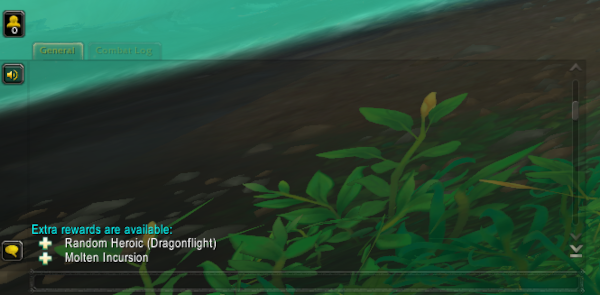
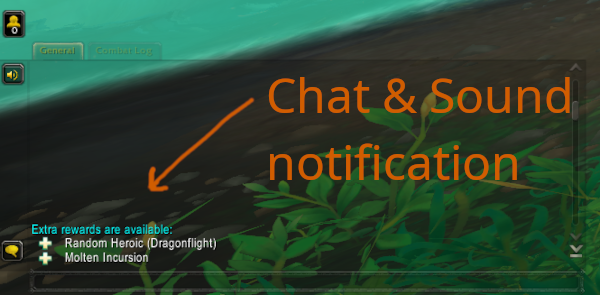
readme, license etc

diff --git a/README.md b/README.md
@@ -1,0 +1,66 @@
+# lfgmon
+
+![logo](assets/logo.png)
+
+## About
+
+
+LFG Monitor (lfgmon) watches the group finder for rare role shortages and extra rewards (Satchel of Cooperation, aka blue bag). When it finds a shortage, it will display a helpful notification icon, and optionally can send you a chat & sound notification.
+
+
+The addon tries to be non-intrusive with its default settings, and integrates well with the vanilla WoW UI.
+
+
+
+## How does it work?
+
+
+   * Install and enable the addon.
+   * The tool will run in the background, and silently monitor eligible LFG dungeons and raids.
+
+
+## When extra rewards are found:
+
+   * a notification icon is displayed (see screenshots)
+   * you can move the icon anywhere on the screen, it will remember the position
+   * hover over the icon to see a list of dungeons and raids giving extra rewards
+   * if notifications are enabled, you will also get a message and a sound notification for any new role shortages (see screenshots)
+
+
+## Settings
+
+
+You can open the settings window from the in-game Options menu, from the Addons tab by locating the "lfgmon" section (see screenshot).
+
+You can also open the settings window using the `/lfgmon config` slash command.
+
+
+You can enable/disable the following options:
+
+
+   * Monitor Dungeons: when enabled, the tool will monitor the LFG - Random Dungeons. (default: enabled)
+   * Monitor Raids: when enabled, the tool will monitor the LFR - Raid Finder. (default: enabled)
+   * Consider Lockout: when enabled, you will not get notified about raid wings you have already killed all bosses in. (default: enabled)
+   * Play Alert: to get chat/sound notifications, you will need to enable this option. (default: disabled)
+
+
+
+## Commands
+
+
+The following chat commands are available:
+
+
+   * `/lfgmon config`: open the settings window
+   * `/lfgmon reset`: reset all options, and the icon position to their default values. This can be useful if you accidentally moved the icon outside of the visible screen.
+
+
+## Feedback, contribution
+
+
+The addon is free and open source, governed by the GPLv3 license.
+
+
+Please report bugs on the CurseForge page, preferably using the built-in issue tracker.
+
+The source code is available here.
